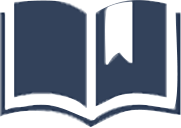
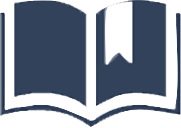
.

diff --git a/Answer_Location_Annotator.py b/Answer_Location_Annotator.py
@@ -15,7 +15,7 @@ class AnnotationApp(QMainWindow):
     def __init__(self):
         super().__init__()
         self.setWindowTitle("MarkIT Annotation Tool")
-        self.setWindowIcon(QIcon(os.path.join('resources', 'images', 'markIT_logo.png')))
+        self.setWindowIcon(QIcon(os.path.join('resources', 'images', 'markIT_icon.png')))
         self.setGeometry(100, 100, 1200, 900)
         self.current_page = 0
         self.pdf_document = None
